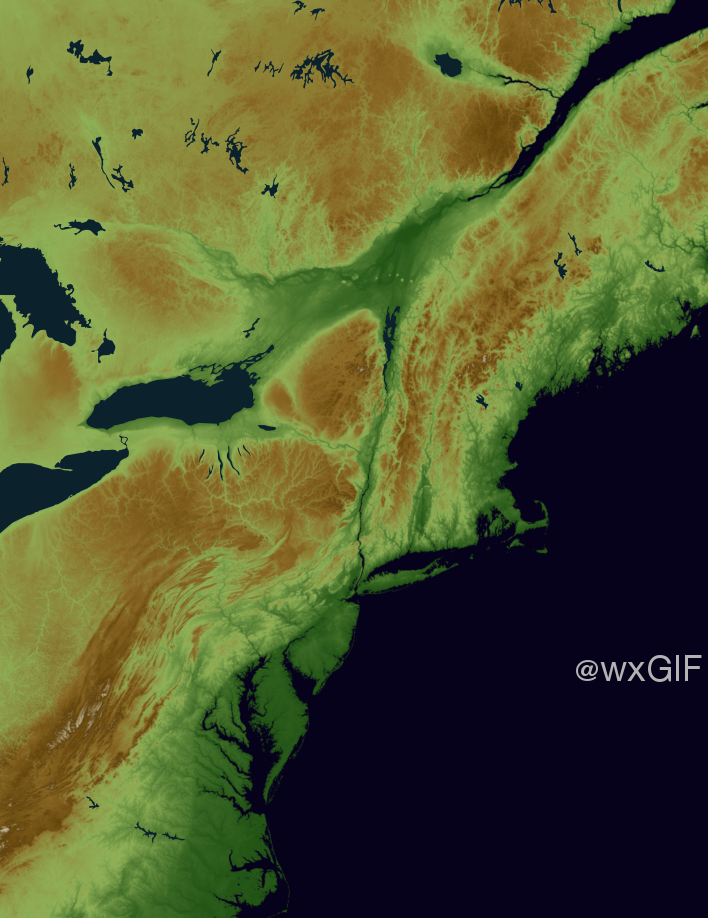
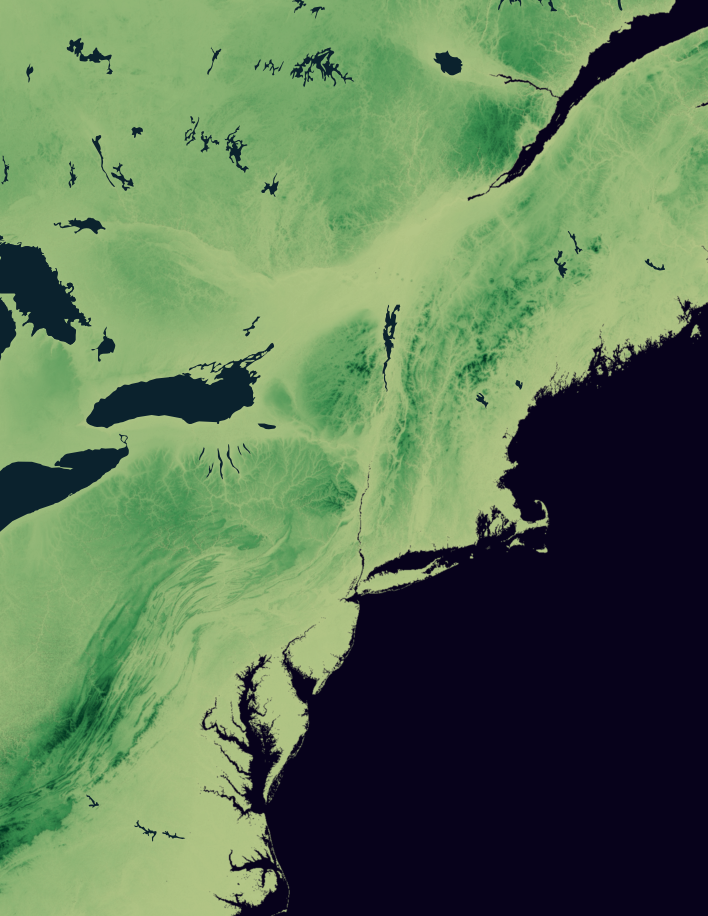
Update basemap with more muted palette

diff --git a/transform.py b/transform.py
@@ -98,7 +98,7 @@ def change_basemap(filename="basemap/northeast-outline.png"):
 
 
 def add_basemap(radar, width="708", region="northeast"):
-    basemap = "basemap/green-%s-%s.png" % (region, width)
+    basemap = "basemap/%s-%s.png" % (region, width)
     background = Image.open(basemap)
     foreground = Image.open(radar)
     combined = "gif/basemap/%s-bm.png" % radar.split('/')[-1].split('.')[0]
@@ -106,7 +106,7 @@ def add_basemap(radar, width="708", region="northeast"):
     background.paste(foreground, (0, 0), foreground)
     background.save(combined, "PNG", optimize=True)
 
-    outline = "basemap/%s-outline-%s.png" % (region, width)
+    outline = "basemap/%s-outline-%s-2.png" % (region, width)
     bg_2 = Image.open(combined)
     fg_2 = Image.open(outline)
 
